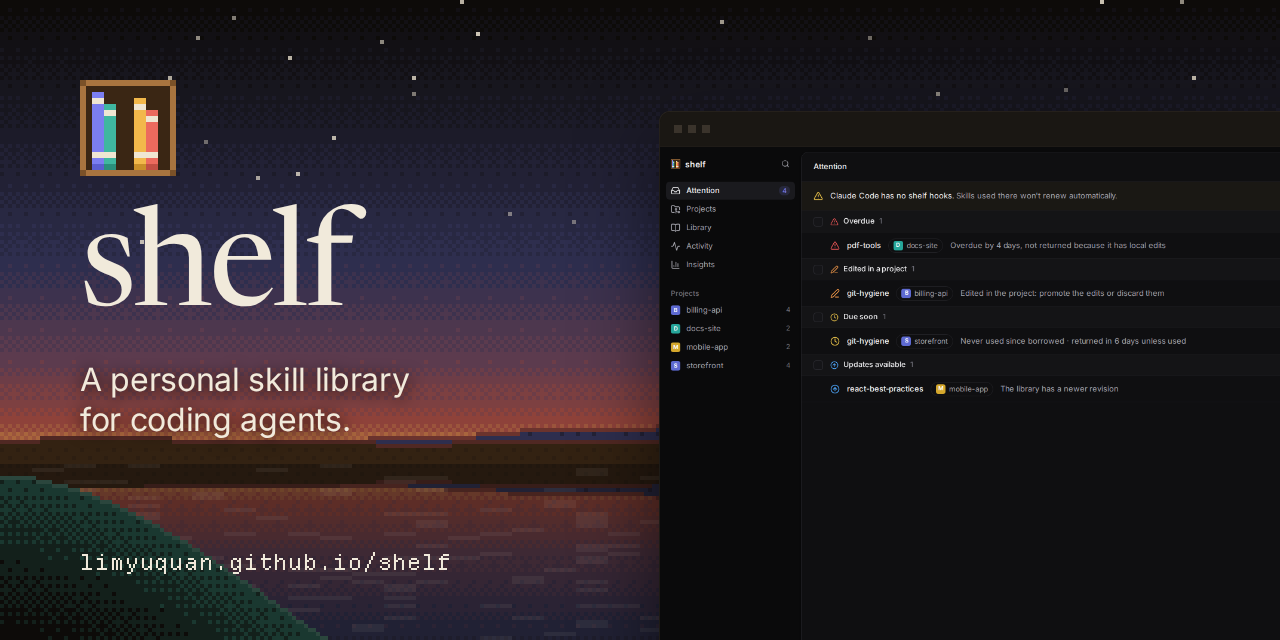
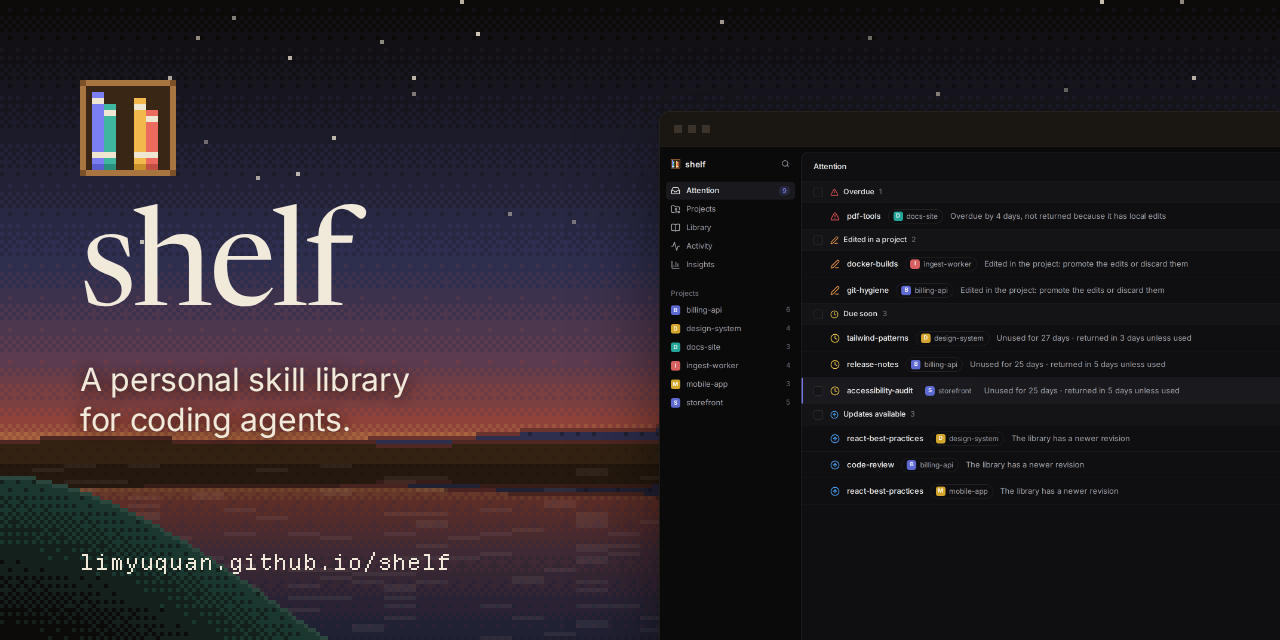
chore(site): social card from the real dashboard still; demo shelf has hooks installed

diff --git a/scripts/site/demo/snapshot.ts b/scripts/site/demo/snapshot.ts
@@ -167,7 +167,7 @@ export function checkRoutes(declared: readonly string[]): void {
 export async function recordSnapshot(): Promise<Snapshot> {
   const dir = await mkdtemp(join(tmpdir(), "shelf-site-demo-"));
   try {
-    const demo = await seedDemo(join(dir, "home"));
+    const demo = await seedDemo(join(dir, "home"), { hooks: true });
     const ctx = await createContext({
       actor: "user:dashboard",
       env: { ...process.env, ...demo.env },
